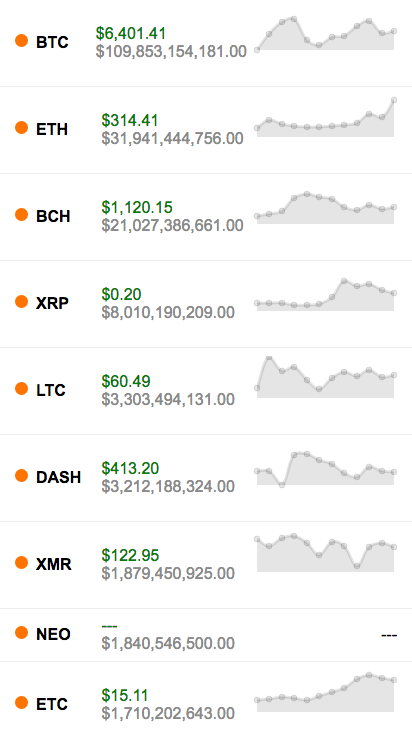
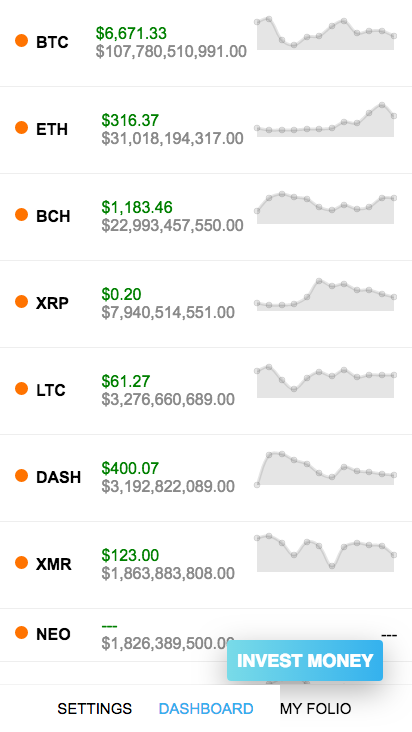
added realtime update for pricing

diff --git a/src/App.js b/src/App.js
@@ -1,5 +1,6 @@
 import React from 'react'
 import { connect } from 'react-redux'
+import ReconnectingWebsocket from 'reconnecting-websocket'
 import {
   pure,
   compose,
@@ -7,14 +8,13 @@ import {
 } from 'recompose'
 import {
   Route,
-  //Link,
   NavLink as Link
 } from 'react-router-dom'
 import AssetList from './AssetList'
 import IntentForm from './IntentForm'
 import './App.css'
 
-export const App = ({markets, loading, hasError, loadingPrices, prices}) => (
+export const App = ({markets, loading, hasError, loadingPrices, prices, life}) => (
   <div className='wrapper'>
     <div className='app'>
       <div className='container'>
@@ -30,7 +30,8 @@ export const App = ({markets, loading, hasError, loadingPrices, prices}) => (
               : <div className='app-inner'>
                 <AssetList
                   markets={markets}
-                  prices={prices} />
+                  prices={prices}
+                  life={life} />
                 <Link className='app-btn-invest' to={'/invest'}>
                   Invest money
                 </Link>
@@ -70,8 +71,25 @@ const mapStateToProps = state => {
     loading: state.markets.isLoading,
     hasError: state.markets.error,
     loadingPrices: state.prices.isLoading,
-    prices: state.prices.items
+    prices: state.prices.items,
+    life: state.prices.life
   }
+}
+
+const WS_URL = 'wss://api.lionshare.capital'
+
+const connectToWebsocket = dispatch => {
+  this.websocket = new ReconnectingWebsocket(WS_URL, [], {})
+  this.websocket.addEventListener('message', message => {
+    const data = JSON.parse(message.data)
+    const title = data.cryptoCurrency
+    const price = parseFloat(data.price)
+    dispatch({
+      type: 'FIRE_TICKET',
+      title,
+      price
+    })
+  })
 }
 
 const mapDispatchToProps = dispatch => {
@@ -95,6 +113,9 @@ const mapDispatchToProps = dispatch => {
           }
         }
       })
+    },
+    realtimeUpdates: () => {
+      connectToWebsocket(dispatch)
     }
   }
 }
@@ -109,6 +130,7 @@ const enhance = compose(
     componentDidMount () {
       this.props.retrievePrices()
       this.props.retrieveMarkets()
+      this.props.realtimeUpdates()
     }
   })
 )

diff --git a/src/AssetItem.js b/src/AssetItem.js
@@ -1,4 +1,10 @@
 import React from 'react'
+import {
+  pure,
+  compose,
+  lifecycle,
+  withState
+} from 'recompose'
 import { Line } from 'react-chartjs-2'
 import './AssetItem.css'
 import { formatNumber } from './utils/formatting'
@@ -24,7 +30,7 @@ const getChartDataFromHistory = (history = []) => {
   }
 }
 
-const AssetItem = ({asset}) => {
+const AssetItem = ({asset, flash}) => {
   const chartData = getChartDataFromHistory(asset.history)
   const chartOptions = {
     responsive: true,
@@ -55,6 +61,9 @@ const AssetItem = ({asset}) => {
       }]
     }
   }
+  const priceClsName = flash
+    ? 'assets-item-details-price asset-item-details-price-flash'
+    : 'assets-item-details-price'
   return (
     <div className='assets-item'>
       <div className='assets-item-title'>
@@ -63,7 +72,7 @@ const AssetItem = ({asset}) => {
       </div>
       <div className='assets-item-details'>
         {asset.price
-          ? <div className='assets-item-details-price'>{formatNumber(asset.price, 'USD')}</div>
+          ? <div className={priceClsName}>{formatNumber(asset.price, 'USD')}</div>
           : <div className='assets-item-details-price'>---</div>}
         <div className='assets-item-details-cap'>{formatNumber(asset.cap, 'USD')}</div>
       </div>
@@ -83,4 +92,22 @@ const AssetItem = ({asset}) => {
   )
 }
 
-export default AssetItem
+const enhance = compose(
+  pure,
+  withState('flash', '_', false),
+  lifecycle({
+    componentWillReceiveProps (newProps) {
+      if (this.props.asset.price !== newProps.asset.price) {
+        this.setState({flash: true})
+      }
+      this.timer = setTimeout(() => {
+        this.setState({flash: false})
+      }, 1000)
+    },
+    componentWillUnmount () {
+      clearTimeout(this.timer)
+    }
+  })
+)
+
+export default enhance(AssetItem)

diff --git a/src/App.css b/src/App.css
@@ -37,7 +37,6 @@
   height: 620px;
   background-color: #fff;
   overflow: hidden;
-  /*overflow: scroll;*/
   border-radius: 5px;
   box-shadow: 0 10px 50px rgba(0, 0, 0, 0.3);
   animation: fadein 1s;
@@ -67,7 +66,6 @@
   margin: 0 auto;
   border: none;
   font: bold 18px "Anton", Helvetica, sans-serif;
-  /*color: rgb(112, 112, 112);*/
   color: white;
   text-align: center;
   text-transform: uppercase;
@@ -110,7 +108,6 @@ button {
 .menu {
   border-top: 1px solid #f3f3f3;
   background-color: white;
-  /*padding-top: 1em;*/
   display: flex;
   justify-content: center;
   vertical-align: center;
@@ -143,11 +140,6 @@ button {
 .menu-link:last-child {
   padding-left: 0;
   text-align: left;
-}
-
-.menu-link:hover {
-  /*background-color: yellow;*/
-  /*box-shadow: 0 5px 20px rgba(0, 0, 0, 0.2);*/
 }
 
 .menu-link-active {

diff --git a/src/AssetList.js b/src/AssetList.js
@@ -1,7 +1,16 @@
 import React from 'react'
 import AssetItem from './AssetItem'
 
-const AssetList = ({markets, prices}) => (
+const getPrice = (title, prices, life) => {
+  if (life && life[title]) {
+    return life[title]
+  } else if (prices && prices[title]) {
+    return prices[title][0]
+  }
+  return null
+}
+
+const AssetList = ({markets, prices, life}) => (
   <div className='assets-list'>
     {Object.keys(markets)
       .filter((key, index) => index < 20)
@@ -12,7 +21,7 @@ const AssetList = ({markets, prices}) => (
             title,
             index,
             history: prices && prices[title] ? prices[title] : null,
-            price: prices && prices[title] ? prices[title][0] : null,
+            price: getPrice(title, prices, life),
             cap: markets[title]
           }} />
     ))}

diff --git a/src/index.js b/src/index.js
@@ -6,6 +6,7 @@ import { createStore, applyMiddleware } from 'redux'
 import { composeWithDevTools } from 'redux-devtools-extension'
 import axios from 'axios'
 import axiosMiddleware from 'redux-axios-middleware'
+import thunk from 'redux-thunk'
 import './index.css'
 import App from './App'
 import reducers from './rootReducers.js'
@@ -16,7 +17,7 @@ const client = axios.create({
   responseType: 'json'
 })
 
-const middleware = [axiosMiddleware(client)]
+const middleware = [axiosMiddleware(client), thunk]
 
 const store = createStore(reducers,
   composeWithDevTools(applyMiddleware(...middleware))

diff --git a/src/AssetItem.css b/src/AssetItem.css
@@ -26,6 +26,8 @@
   display: flex;
   flex-direction: column;
   text-align: left;
+  background-color: white;
+  transition: 0.3s ease;
 }
 
 .assets-item .assets-item-details .assets-item-details-price {
@@ -35,4 +37,8 @@
 .assets-item .assets-item-details .assets-item-details-cap {
   color: #8a8a8a;
   font-weight: 300;
+}
+
+.asset-item-details-price-flash {
+  background-color: yellow;
 }

diff --git a/src/rootReducers.js b/src/rootReducers.js
@@ -23,6 +23,14 @@ export const prices = (state = {isLoading: true, error: false, items: []}, actio
         error: false,
         items: action.payload.data.data
       }
+    case 'FIRE_TICKET':
+      return {
+        ...state,
+        life: {
+          ...state.life,
+          [action.title]: action.price.toFixed(2)
+        }
+      }
     default:
       return state
   }
